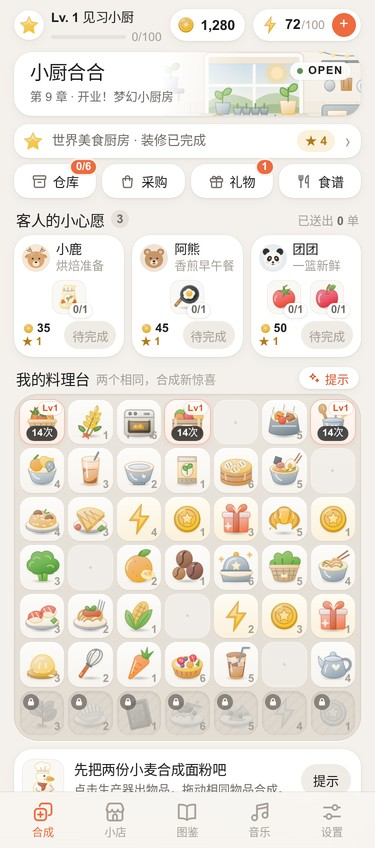
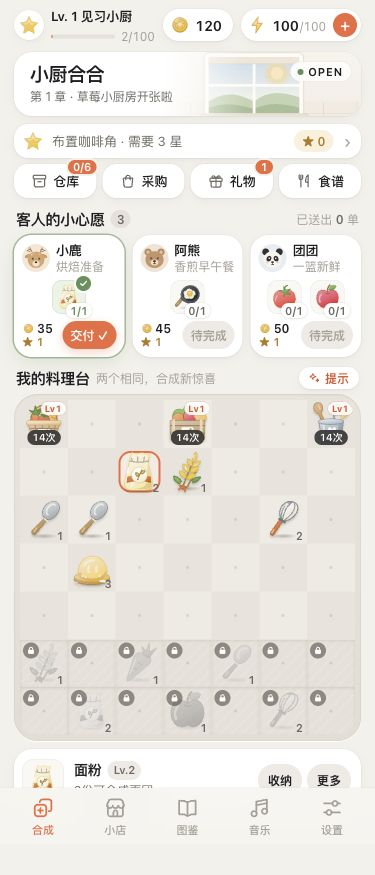
feat(kitchen-merge): soften board tiles and emphasize items

diff --git a/kitchen-merge/dist/style.css b/kitchen-merge/dist/style.css
@@ -20,6 +20,10 @@
   --sage:#5f9157;
   --sage-soft:#ebf3e6;
   --ink-glass:rgba(29,29,31,.78);
+  --board-base:var(--canvas-deep);
+  --board-checker:color-mix(in srgb,var(--canvas) 48%,var(--canvas-deep));
+  --board-item-shadow:rgba(70,50,30,.2);
+  --board-selected:color-mix(in srgb,var(--accent-soft) 62%,var(--board-base));
   --r-xl:24px;
   --r-l:18px;
   --r-m:14px;
@@ -656,7 +660,10 @@ h1,h2,h3,p { margin:0; }
   grid-template-columns:repeat(7,minmax(0,1fr));
   grid-template-rows:repeat(7,minmax(0,1fr));
   aspect-ratio:1;
-  gap:4px;
+  gap:0;
+  background:var(--board-base);
+  border-radius:18px;
+  overflow:hidden;
   touch-action:none;
   user-select:none;
   -webkit-user-select:none;
@@ -666,18 +673,33 @@ h1,h2,h3,p { margin:0; }
   position:relative;
   min-width:0;
   min-height:0;
-  padding:3px;
-  background:linear-gradient(180deg,#fdfcfa,#f7f4ef);
-  border-radius:12px;
-  box-shadow:0 1px 1px rgba(60,40,20,.06),inset 0 1px 0 #fff;
+  padding:1px;
+  background:transparent;
+  border-radius:0;
+  box-shadow:none;
+  isolation:isolate;
   touch-action:none;
   cursor:default;
   transition:box-shadow .2s var(--ease),background .2s var(--ease),transform .2s var(--ease);
 }
 
-.cell.occupied { cursor:grab; }
+.cell:before {
+  content:'';
+  position:absolute;
+  inset:0;
+  z-index:-1;
+  pointer-events:none;
+  transition:background-color .2s var(--ease),box-shadow .2s var(--ease);
+}
 
-.cell.empty { background:rgba(255,255,255,.42); box-shadow:inset 0 0 0 .5px rgba(255,255,255,.6); }
+/* Seven columns keep alternating cells aligned across rows. */
+.cell:nth-child(even):before { background:var(--board-checker); }
+
+.cell:active:not(:disabled) { transform:none; }
+.cell:active:not(.locked) .item-art { transform:scale(.96); }
+.cell:focus-visible { outline-offset:-3px; border-radius:12px; }
+
+.cell.occupied { cursor:grab; }
 
 .cell.empty:after {
   content:'';
@@ -689,13 +711,17 @@ h1,h2,h3,p { margin:0; }
   margin:-1.5px;
   border-radius:50%;
   background:rgba(60,40,20,.12);
+  pointer-events:none;
 }
 
 .cell .item-art {
   width:100%;
   height:100%;
   display:block;
-  filter:drop-shadow(0 1px 1px rgba(60,40,20,.08));
+  position:relative;
+  z-index:1;
+  pointer-events:none;
+  filter:drop-shadow(0 2px 1px var(--board-item-shadow));
   transition:transform .25s var(--spring);
 }
 
@@ -703,18 +729,15 @@ h1,h2,h3,p { margin:0; }
   position:absolute;
   right:4px;
   bottom:2px;
+  z-index:2;
   font-size:11px;
-  color:var(--label-3);
+  color:var(--label-2);
   line-height:1;
   font-weight:600;
   font-variant-numeric:tabular-nums;
 }
 
-.cell.producer {
-  background:linear-gradient(180deg,#fffaf6,#fdeee5);
-  box-shadow:0 0 0 1px rgba(238,106,63,.22),0 2px 6px rgba(238,106,63,.12),inset 0 1px 0 #fff;
-  cursor:pointer;
-}
+.cell.producer { cursor:pointer; }
 
 .cell.producer .item-level {
   top:2px;
@@ -731,10 +754,6 @@ h1,h2,h3,p { margin:0; }
   line-height:1.1;
   letter-spacing:.02em;
 }
-
-.cell.resource-item { background:linear-gradient(180deg,#fffcf3,#fbf1dc); }
-
-.cell.cooling { background:linear-gradient(180deg,#f6f3ef,#eeeae4); box-shadow:inset 0 0 0 .5px var(--hair); }
 
 .cell.cooling .item-art { opacity:.55; filter:saturate(.6); }
 
@@ -759,9 +778,12 @@ h1,h2,h3,p { margin:0; }
 }
 
 .cell.locked {
-  background:repeating-linear-gradient(135deg,#ddd7ce 0 6px,#d9d3c9 6px 8px);
-  box-shadow:inset 0 1px 3px rgba(60,40,20,.12);
   cursor:default;
+}
+
+.cell.locked:before {
+  background:repeating-linear-gradient(135deg,var(--fill-2) 0 6px,var(--canvas-deep) 6px 8px);
+  box-shadow:inset 0 1px 3px var(--hair-strong);
 }
 
 .cell.locked .item-art { opacity:.38; filter:grayscale(1) contrast(.9); }
@@ -783,12 +805,11 @@ h1,h2,h3,p { margin:0; }
 
 .lock-badge svg { stroke-width:2.4; }
 
-.cell.bubble { background:linear-gradient(180deg,#fbfdff,#eef4f8); }
-
 .cell.bubble:after {
   content:'';
   position:absolute;
   inset:2px;
+  z-index:2;
   border-radius:50%;
   background:radial-gradient(circle at 30% 24%,rgba(255,255,255,.95) 0 4%,transparent 14%),conic-gradient(from 200deg,rgba(255,196,170,.28),rgba(180,214,240,.3),rgba(200,230,190,.26),rgba(255,226,160,.28),rgba(255,196,170,.28));
   box-shadow:inset 0 0 0 1px rgba(255,255,255,.9),inset 0 -3px 6px rgba(140,170,200,.18);
@@ -796,22 +817,23 @@ h1,h2,h3,p { margin:0; }
 }
 
 .cell.selected,
-.cell.locked.selected,
-.cell.bubble.selected,
-.cell.cooling.selected,
-.cell.resource-item.selected,
-.cell.producer.selected {
-  box-shadow:0 0 0 2px var(--accent),0 0 0 5px rgba(238,106,63,.16);
-  z-index:1;
+.cell.hint,
+.cell.drop-target { z-index:2; }
+
+.cell.selected:before,
+.cell.drop-target:before {
+  inset:3px;
+  border-radius:12px;
+  background:var(--board-selected);
+  box-shadow:inset 0 0 0 2px var(--accent);
 }
 
 .cell.selected .item-art { transform:scale(1.06); }
 
-.cell.hint { animation:hintPulse .9s ease-in-out infinite alternate; z-index:1; }
-
-.cell.drop-target {
-  background:var(--accent-soft);
-  box-shadow:0 0 0 2px var(--accent),0 0 0 6px rgba(238,106,63,.14);
+.cell.hint:before {
+  inset:3px;
+  border-radius:12px;
+  animation:hintPulse .9s ease-in-out infinite alternate;
 }
 
 .cell.drag-source .item-art { opacity:.22; }
@@ -1025,7 +1047,8 @@ h1,h2,h3,p { margin:0; }
 
 .producer-burst { position:absolute; inset:0; border-radius:12px; pointer-events:none; z-index:3; animation:producerBurst .5s var(--ease) forwards; }
 
-.cell.producer-burst { position:relative; }
+.cell.producer-burst { position:relative; pointer-events:auto; animation:none; border-radius:0; }
+.cell.producer-burst:before { inset:3px; border-radius:12px; animation:producerBurst .5s var(--ease); }
 
 .unlock-shine {
   position:fixed;
@@ -1536,8 +1559,8 @@ label.settings-row {
 }
 
 @keyframes hintPulse {
-  from { box-shadow:0 0 0 1.5px rgba(232,169,59,.55),0 0 0 0 rgba(232,169,59,.25); }
-  to { box-shadow:0 0 0 2px rgba(232,169,59,.95),0 0 0 6px rgba(232,169,59,.18); transform:scale(.96); }
+  from { box-shadow:inset 0 0 0 1.5px color-mix(in srgb,var(--gold) 55%,transparent); }
+  to { box-shadow:inset 0 0 0 2px var(--gold),inset 0 0 10px color-mix(in srgb,var(--gold) 18%,transparent); }
 }
 
 @keyframes pop {
@@ -1563,10 +1586,7 @@ label.settings-row {
 }
 
 @media(hover:hover) {
-  .cell.occupied:hover { box-shadow:0 0 0 1.5px rgba(60,40,20,.12),0 4px 10px rgba(60,40,20,.08); }
-  .cell.producer:hover { box-shadow:0 0 0 1.5px rgba(238,106,63,.4),0 4px 12px rgba(238,106,63,.16); }
-  .cell:hover .item-art { transform:translateY(-1px) scale(1.03); }
-  .cell.locked:hover { box-shadow:inset 0 1px 3px rgba(60,40,20,.12); }
+  .cell.occupied:not(.locked):not(.selected):not(:active):hover .item-art { transform:translateY(-1px) scale(1.03); }
   .cell.locked:hover .item-art { transform:none; }
   .small-button:not(:disabled):hover { background:var(--fill-2); }
   .dock-button:not(.active):hover { color:var(--label-2); }
@@ -1653,8 +1673,6 @@ body { max-width:100%; overflow-x:clip; }
   .reward { flex-direction:row; align-items:center; gap:6px; }
   .order-submit { height:24px; width:100%; }
   .board-heading h2>span { display:none; }
-  .board { gap:3px; }
-  .cell { padding:2px; border-radius:10px; }
   .selection-card { flex-wrap:wrap; gap:7px; padding:8px; }
   .selected-art { width:38px; height:38px; }
   .selection-actions { margin-left:45px; max-width:100%; }

diff --git a/kitchen-merge/README.md b/kitchen-merge/README.md
@@ -28,6 +28,7 @@ python3 -m http.server 4173 --bind 127.0.0.1 --directory dist
 
 ## 视觉设计
 
+- 料理台：连续的暖灰米色奶油棋盘，弱化格底，物品保留现有插画并放大显示、增加短软影；选中与提示仅在格内高亮。整体配色、页面布局和棋盘外框尺寸保持一致。
 - 界面：暖瓷白底（`#f4f1ec`）、石墨色文字、单一柿橙强调色（`#ee6a3f`），层级依靠留白、柔和阴影与圆角，不使用描边色块；底部为毛玻璃标签栏，弹窗为分组卡片式面板。色值集中在 `style.css` 顶部的 CSS 变量。
 - 物品插画：`art.mjs` 中的造型统一经过材质管线渲染——按物品类别映射到同一套材质（陶瓷釉蓝、暖白珐琅、藤编、赤陶、浆果红等），自动加入体积渐变、同色系细描边和柔和投影。渐变定义只在页面中注入一次。
 - 界面图标：`glyph()` 提供单色线性符号，继承文字颜色；顾客使用独立的动物头像。

diff --git a/kitchen-merge/ART_STYLE.md b/kitchen-merge/ART_STYLE.md
@@ -12,6 +12,8 @@
 - 层级靠圆角（10/14/18/24px）+ 两档柔和阴影 `--shadow-1/2`，**不使用有色描边和色块边框**。
 - 字体用系统栈（SF / 苹方 / Noto Sans SC），标题字重 700、字距 -0.02em，数字用 tabular-nums。
 - 底部是毛玻璃标签栏，弹窗是分组卡片式面板。动效用弹簧曲线 `--spring`，时长 0.2–0.45s。
+- 料理台采用一体奶油棋盘：沿用暖灰米色底，用同色系的轻微明暗交替提示七乘七格位。格子无间隙、无独立白色卡片，物品以较饱满的显示比例和短软影突出；选中、落点和提示高亮画在格内。页面布局、外框尺寸、全局配色和物品图稿保持原有设计。
+- 生产器靠等级和次数徽标识别，资源物品靠插画识别，不恢复彩色卡片底；冷却降饱和、锁定纹理和气泡膜保留。按压与弹出缩放只作用于图稿，棋格本体保持连续。
 
 ## 2. 物品插画（`dist/art.mjs`）
 
